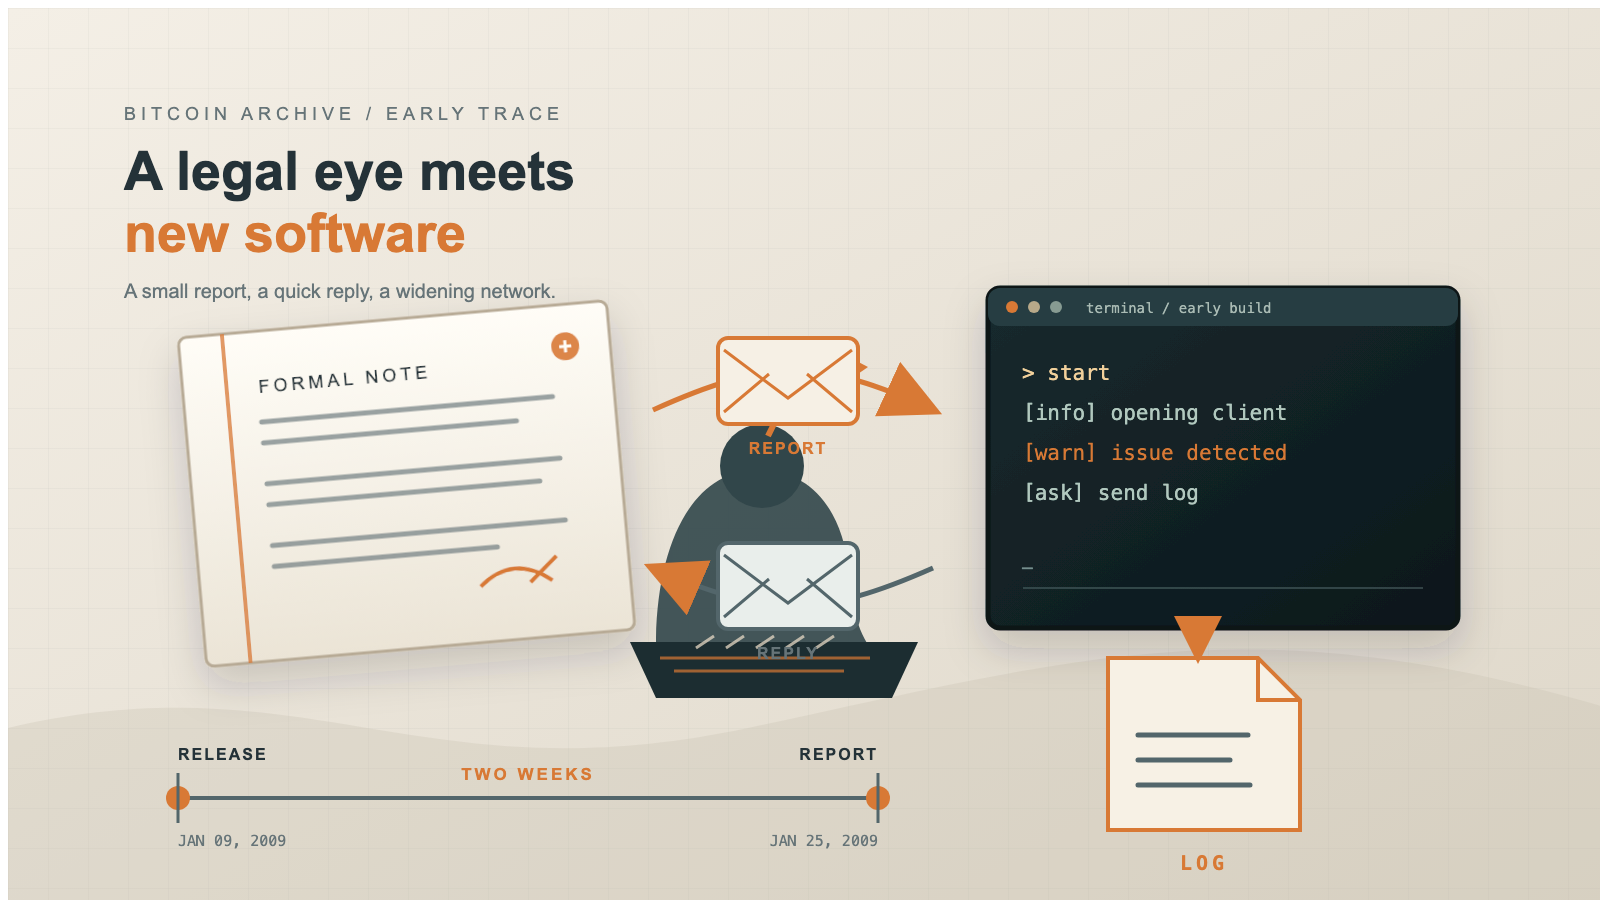
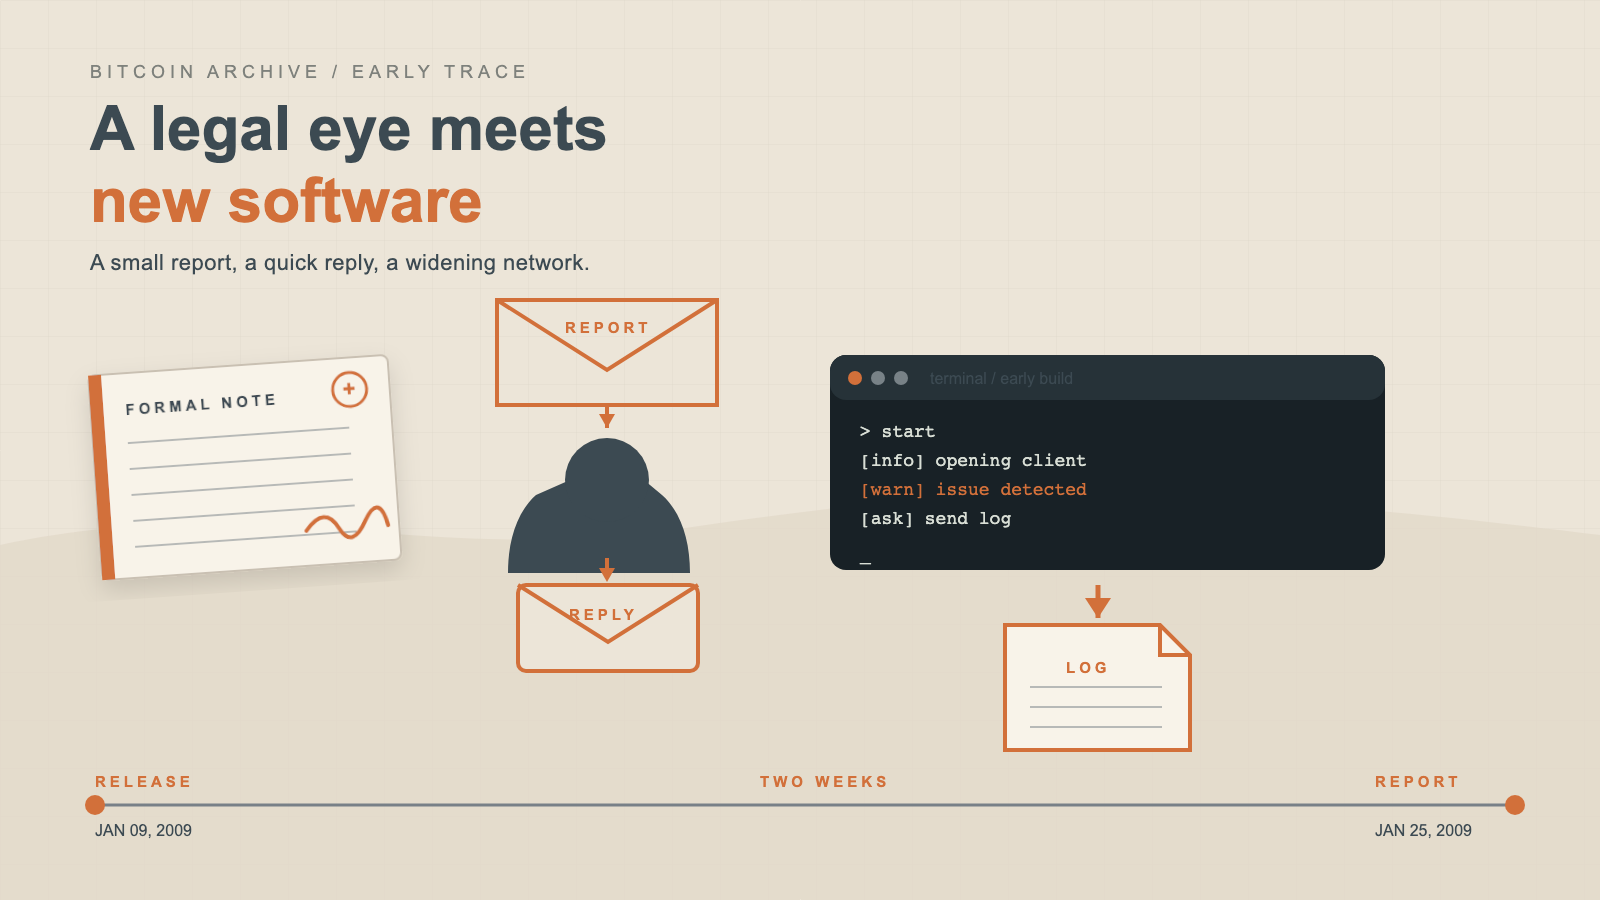
Fix the 8px white band on three hero images, and document the cause
Three hero images shipped with an 8 px white band along their left and
top edges, with 8 px of the intended design clipped off the right and
bottom: nicholas-bohm, peter-todd and gregory-maxwell. The cause is
that Playwright's setContent() leaves the browser default 8 px body
margin in place, so the screenshot captures it. The original SVG
sources were gone, so all three were rebuilt from their rendered
composition and re-rendered with the margin zeroed. Their layouts are
now free of the overlaps and clipping the old renders carried.

STYLE_GUIDE: the Hero Images section now states the margin
requirement, notes that it has to be restated in every generation
request because each run writes a fresh render script, and adds a
verification step - read the edge pixels rather than eyeballing the
thumbnail, since a shifted render is still 1600x900. It also records
two SVG traps found here: a fill attribute loses to a style rule, and
letter-spacing widens a run past what its coordinates suggest. In-image
text is called out as a published claim subject to the same sourcing
rules as body prose.

tags.ts: remove two duplicate keys, soft-fork and difficulty-adjustment.
Both were appended in June 2026 without checking the existing entries
and carry the same value as the originals, so the object literal was
warning at build time with no behavioural difference.

diff --git a/src/i18n/tags.ts b/src/i18n/tags.ts
@@ -611,8 +611,6 @@ export const tagTranslations: Record<string, string> = {
   'ponzi-scheme': 'ポンジ・スキーム',
   'ceo-death': 'CEO 死亡',
   'first-step-act': 'First Step Act',
-  'difficulty-adjustment': '難易度調整',
-  'soft-fork': 'ソフトフォーク',
   'consensus-cleanup': 'コンセンサス クリーンアップ',
   'vulnerability': '脆弱性',
   'great-consensus-cleanup': 'Great Consensus Cleanup',

diff --git a/STYLE_GUIDE.md b/STYLE_GUIDE.md
@@ -426,6 +426,38 @@ after it.
   entry's actual type directory (`aftermath/`, `design/`, etc.) — the
   directory name predates this feature's scope beyond `analysis` and
   is kept for path stability across already-shipped entries.
+- **Zero the body margin before screenshotting.** The usual path —
+  Playwright's `page.setContent(svg)` followed by `page.screenshot()` —
+  drops the SVG into a body that still carries the browser default
+  `margin: 8px`. The screenshot then captures 8 px of white along the
+  left and top edges, and clips 8 px off the right and bottom. Wrap the
+  SVG in a document that sets `html,body{margin:0;padding:0}` (and
+  paints the page background behind it) before taking the shot. Each
+  regeneration writes a fresh render script, so this has to be restated
+  in the generation request every time — it is not a one-off fix.
+
+**Verify before committing a hero image**: the defect above is easy to
+miss on a dark page. Read the corner and edge pixels rather than
+eyeballing the thumbnail — all four edges should be the image's own
+background colour, never `#ffffff`, and the render must be exactly
+1600×900. A shifted-by-8px render is 1600×900 too, so size alone does
+not prove it is correct. Then look at the image itself for the errors
+a pixel check cannot catch: labels overlapping each other or a shape,
+a curve pointing the wrong way, and any factual claim baked into the
+artwork (an in-image label is as much a published claim as body prose,
+and is subject to the same sourcing rules).
+
+Two SVG-specific traps that produced real defects here, both invisible in the
+markup and obvious only in the render:
+
+- **A `fill="..."` attribute loses to a `<style>` rule.** A label written as
+  `<text class="small" fill="#0d1f2a">` keeps the class's colour, because a CSS
+  rule beats a presentation attribute. Dark text on a light fill silently stayed
+  light. Use `style="fill:..."` when overriding a class.
+- **`letter-spacing` widens a run past what the coordinates suggest**, and SVG
+  adds the spacing after the final glyph too. A centred, letter-spaced string
+  overflows its panel and collides with its neighbour. Measure the rendered run,
+  or drop the manual spaces when the class already letter-spaces.
 
 **Alt text**:
 
